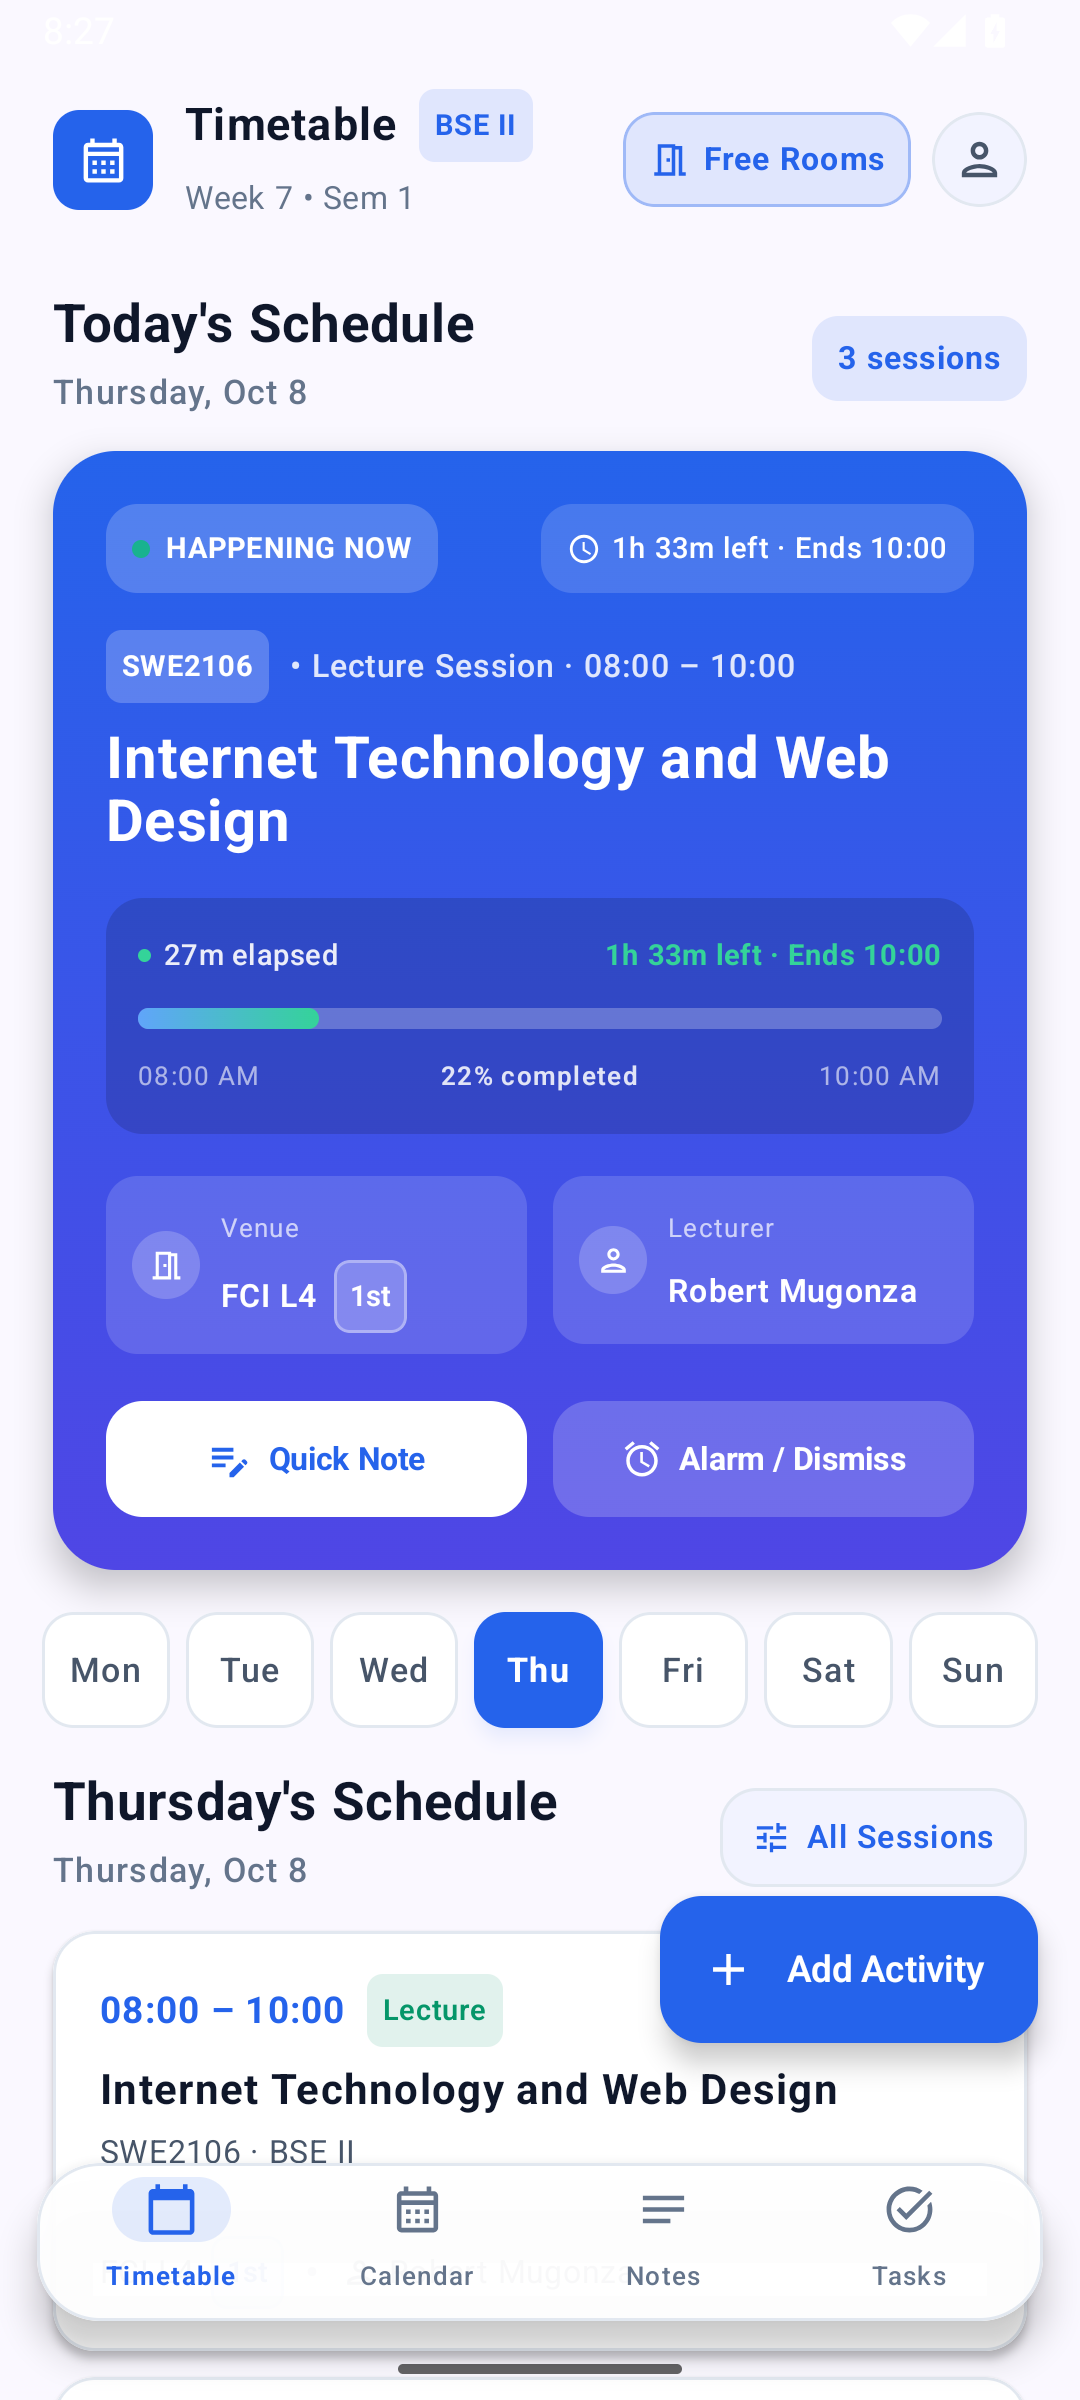
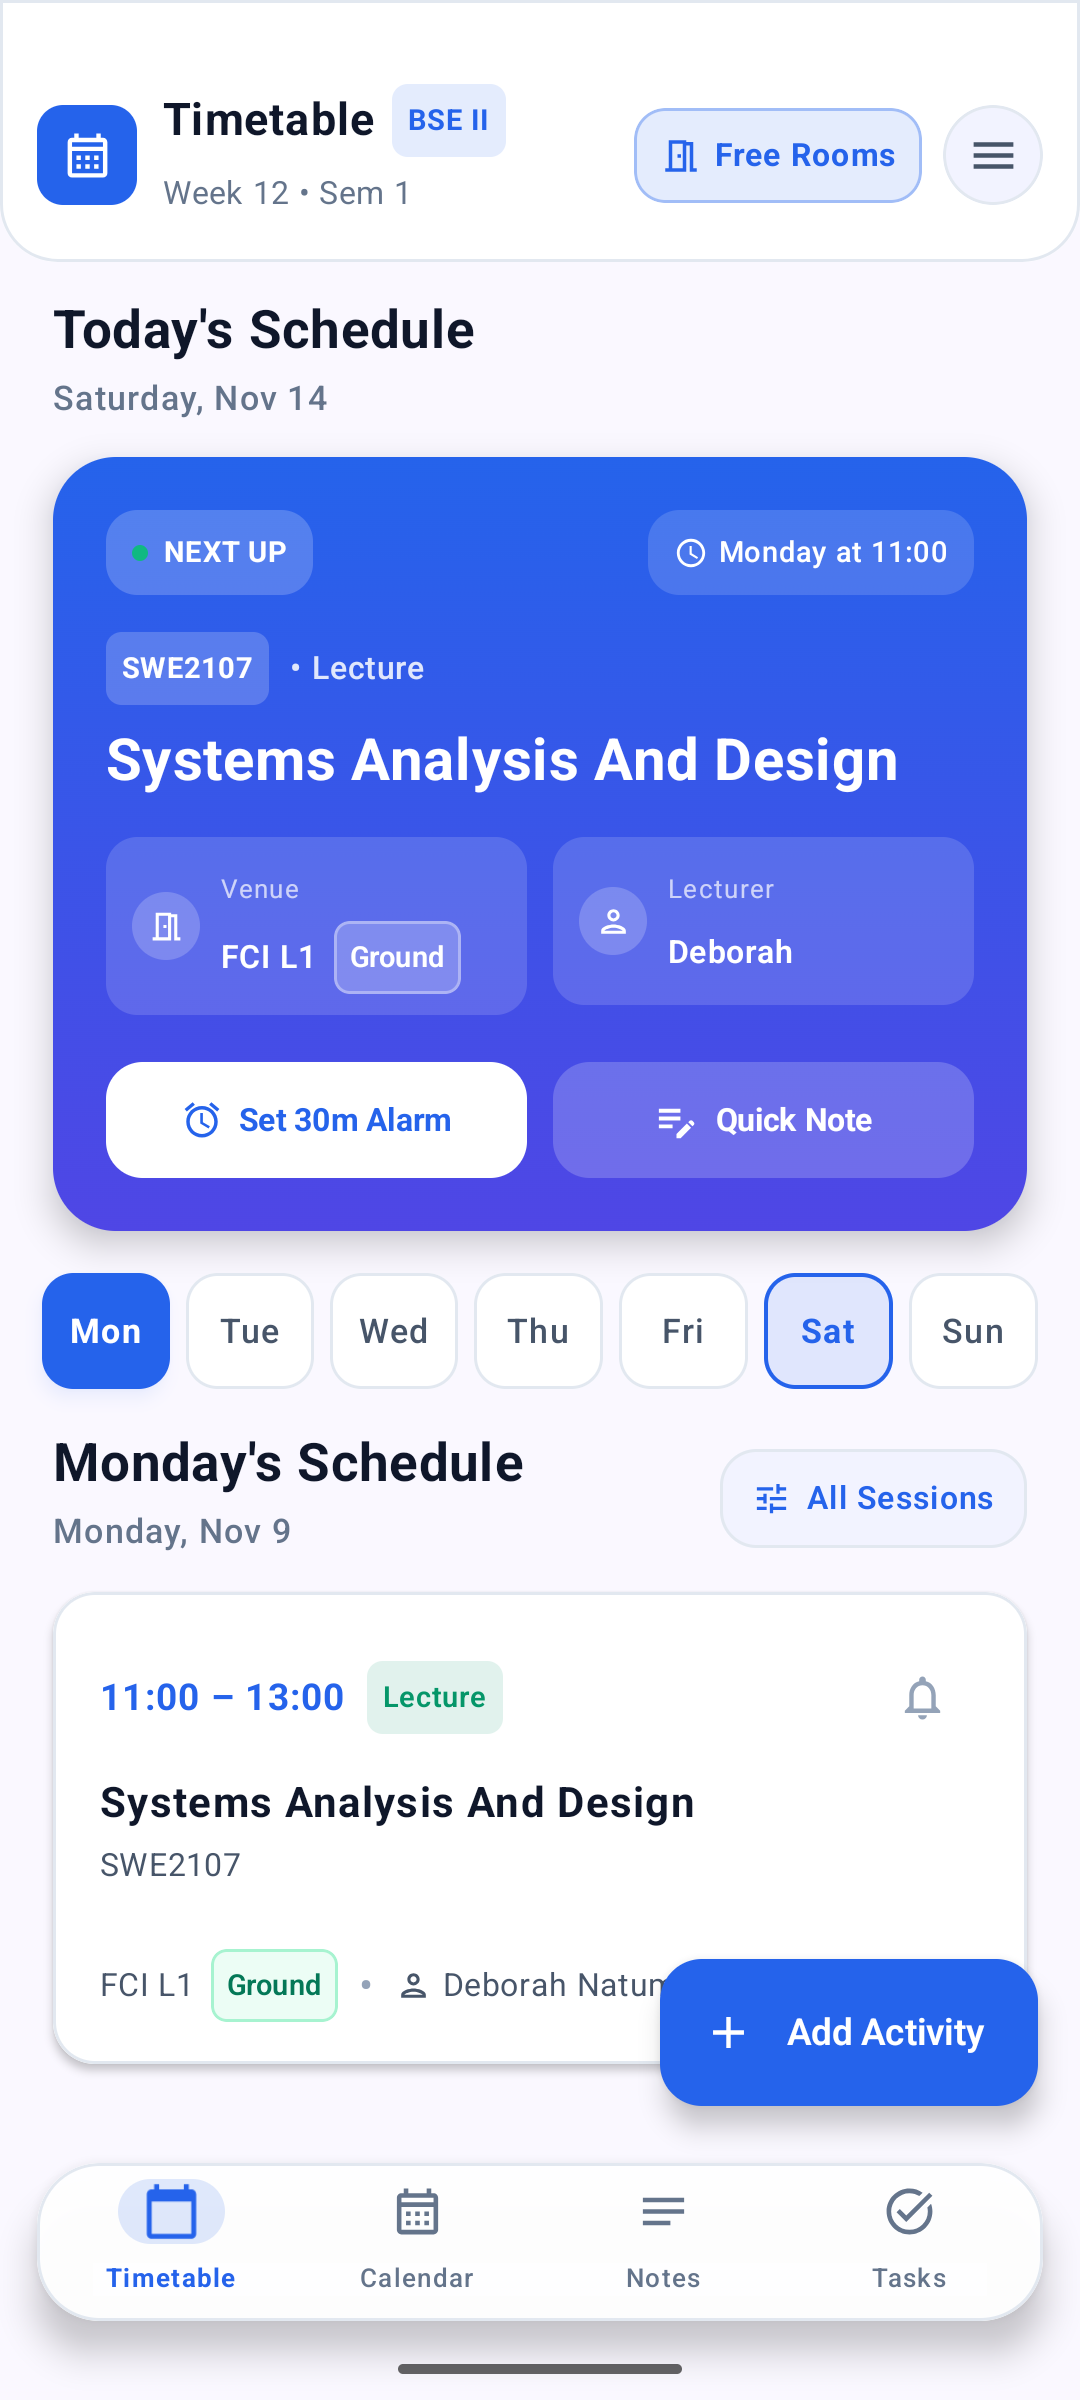
docs: update screenshot paths and README links
Consolidate screenshot management by moving images to the local
docs/screenshots directory and updating references in README.md and
docs/SCREENSHOTS.md. Added legacy storage for previous versions.

diff --git a/docs/SCREENSHOTS.md b/docs/SCREENSHOTS.md
@@ -1,33 +1,35 @@
 # Lectures — App Screenshots
 
-All screens from the current release, grouped by feature area.
+All screens from the current release, grouped by feature area (previous screenshots are preserved in [`screenshots/legacy/`](screenshots/legacy/)).
 
 ## Onboarding
 
 | | |
 |---|---|
-| [![Welcome](https://raw.githubusercontent.com/mugmarp/mylectures/main/docs/screenshots/Lectures_welcome_screen.png)](https://raw.githubusercontent.com/mugmarp/mylectures/main/docs/screenshots/Lectures_welcome_screen.png) | [![Faculty selection](https://raw.githubusercontent.com/mugmarp/mylectures/main/docs/screenshots/choose_facult_screen.png)](https://raw.githubusercontent.com/mugmarp/mylectures/main/docs/screenshots/choose_facult_screen.png) |
+| [![Welcome](screenshots/Lectures_welcome_screen.png)](screenshots/Lectures_welcome_screen.png) | [![Faculty selection](screenshots/choose_facult_screen.png)](screenshots/choose_facult_screen.png) |
 | *Welcome screen — app identity, feature overview, and onboarding entry point.* | *Faculty selection — step 1 of 3: six faculties with programme counts.* |
-| [![Programme selection](https://raw.githubusercontent.com/mugmarp/mylectures/main/docs/screenshots/select_program_busines_and_management_science.png)](https://raw.githubusercontent.com/mugmarp/mylectures/main/docs/screenshots/select_program_busines_and_management_science.png) | [![Class group selection](https://raw.githubusercontent.com/mugmarp/mylectures/main/docs/screenshots/BS-ECO-CLASS-GROUP.png)](https://raw.githubusercontent.com/mugmarp/mylectures/main/docs/screenshots/BS-ECO-CLASS-GROUP.png) |
+| [![Programme selection](screenshots/select_program_busines_and_management_science.png)](screenshots/select_program_busines_and_management_science.png) | [![Class group selection](screenshots/BS-ECO-CLASS-GROUP.png)](screenshots/BS-ECO-CLASS-GROUP.png) |
 | *Programme selection — step 2: degree programmes within the selected faculty.* | *Class group selection — step 3: year group with live timetable entry counts.* |
 
 ## Timetable & Profile
 
 | | |
 |---|---|
-| [![Timetable](https://raw.githubusercontent.com/mugmarp/mylectures/main/docs/screenshots/BSE_II_timetable%20screen.png)](https://raw.githubusercontent.com/mugmarp/mylectures/main/docs/screenshots/BSE_II_timetable%20screen.png) | [![Academic profile](https://raw.githubusercontent.com/mugmarp/mylectures/main/docs/screenshots/academi_profile_sheet.png)](https://raw.githubusercontent.com/mugmarp/mylectures/main/docs/screenshots/academi_profile_sheet.png) |
-| *Timetable — card-based daily view with a live "Happening Now" tracker.* | *Academic profile — enrolled programme, campus, semester, and timetable sync status.* |
+| [![Timetable](screenshots/BSE_II_timetable%20screen.png)](screenshots/BSE_II_timetable%20screen.png) | [![Academic Info](screenshots/academi_profile_sheet.png)](screenshots/academi_profile_sheet.png) |
+| *Timetable — card-based daily view with a "Next Up" tracker, lecture reminders, and quick note shortcut.* | *Academic Info — enrolled programme (BSE II 2026/2027), Kihumuro campus, Semester 1 Week 12, and timetable release status.* |
 
 ## Productivity
 
 | | |
 |---|---|
-| [![Tasks](https://raw.githubusercontent.com/mugmarp/mylectures/main/docs/screenshots/tasks_screen.png)](https://raw.githubusercontent.com/mugmarp/mylectures/main/docs/screenshots/tasks_screen.png) | [![Note editor](https://raw.githubusercontent.com/mugmarp/mylectures/main/docs/screenshots/take_note_screen.png)](https://raw.githubusercontent.com/mugmarp/mylectures/main/docs/screenshots/take_note_screen.png) |
-| *Tasks & deadlines — week progress, daily breakdown, priority filters.* | *Lecture notes — Markdown editor with Write/Preview toggle, course linking, templates, pre-class reminders, and attachments.* |
+| [![Tasks](screenshots/tasks_screen.png)](screenshots/tasks_screen.png) | [![Note editor](screenshots/take_note_screen.png)](screenshots/take_note_screen.png) |
+| *Tasks & deadlines — week progress dashboard, daily breakdown, search, and priority filters.* | *Lecture notes — Markdown editor with Write/Preview toggle, highlight/callout/table tools, course linking, templates, pre-class reminders, and attachments.* |
 
 ## Vacant Room Finder
 
 | | |
 |---|---|
-| [![Vacant rooms — Kihumuro](https://raw.githubusercontent.com/mugmarp/mylectures/main/docs/screenshots/room_finder_at_kihumuro.png)](https://raw.githubusercontent.com/mugmarp/mylectures/main/docs/screenshots/room_finder_at_kihumuro.png) | [![Vacant rooms — Town](https://raw.githubusercontent.com/mugmarp/mylectures/main/docs/screenshots/vacant_room_finder_on_town_campus.png)](https://raw.githubusercontent.com/mugmarp/mylectures/main/docs/screenshots/vacant_room_finder_on_town_campus.png) |
-| *Vacant Room Finder — Kihumuro campus, FCI Building: 14 rooms, 8 free now.* | *Vacant Room Finder — Town campus, Science Block: free-until times with next class.* |
+| [![Vacant rooms — Kihumuro FCI](screenshots/room_finder_at_kihumuro.png)](screenshots/room_finder_at_kihumuro.png) | [![Vacant rooms — Kihumuro preview](screenshots/room_finder_kihumuro_schedule_preview.png)](screenshots/room_finder_kihumuro_schedule_preview.png) |
+| *Vacant Room Finder — Kihumuro campus, FCI Building selector with 14 rooms and live availability.* | *Vacant Room Finder — Kihumuro campus, FCI Building time-slot preview (Wednesday 10:30) showing free-until windows and occupied classes.* |
+| [![Vacant rooms — Town](screenshots/vacant_room_finder_on_town_campus.png)](screenshots/vacant_room_finder_on_town_campus.png) | |
+| *Vacant Room Finder — Town campus, Science Block (SCI) time-slot check (Tuesday 10:37) with free & occupied rooms.* | |

diff --git a/README.md b/README.md
@@ -98,10 +98,10 @@ Outside Google Play, Lectures includes a dedicated updater that checks verified 
 
 | Welcome | Timetable | Tasks | Vacant Rooms |
 |---|---|---|---|
-| [![Welcome](https://raw.githubusercontent.com/mugmarp/mylectures/main/docs/screenshots/Lectures_welcome_screen.png)](https://raw.githubusercontent.com/mugmarp/mylectures/main/docs/screenshots/Lectures_welcome_screen.png) | [![Timetable](https://raw.githubusercontent.com/mugmarp/mylectures/main/docs/screenshots/BSE_II_timetable%20screen.png)](https://raw.githubusercontent.com/mugmarp/mylectures/main/docs/screenshots/BSE_II_timetable%20screen.png) | [![Tasks](https://raw.githubusercontent.com/mugmarp/mylectures/main/docs/screenshots/tasks_screen.png)](https://raw.githubusercontent.com/mugmarp/mylectures/main/docs/screenshots/tasks_screen.png) | [![Vacant Rooms](https://raw.githubusercontent.com/mugmarp/mylectures/main/docs/screenshots/room_finder_at_kihumuro.png)](https://raw.githubusercontent.com/mugmarp/mylectures/main/docs/screenshots/room_finder_at_kihumuro.png) |
-| *Welcome & feature overview* | *BSE II live timetable* | *Week progress & deadlines* | *Kihumuro campus, FCI Building* |
+| [![Welcome](docs/screenshots/Lectures_welcome_screen.png)](docs/screenshots/Lectures_welcome_screen.png) | [![Timetable](docs/screenshots/BSE_II_timetable%20screen.png)](docs/screenshots/BSE_II_timetable%20screen.png) | [![Tasks](docs/screenshots/tasks_screen.png)](docs/screenshots/tasks_screen.png) | [![Vacant Rooms](docs/screenshots/room_finder_at_kihumuro.png)](docs/screenshots/room_finder_at_kihumuro.png) |
+| *Welcome & feature overview* | *BSE II schedule & Next Up card* | *Week progress & deadlines* | *Kihumuro campus, FCI Building* |
 
-**[View all 10 screenshots →](docs/SCREENSHOTS.md)**
+**[View all 11 screenshots →](docs/SCREENSHOTS.md)**
 
 ---
 
